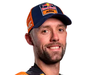
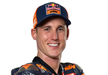
Fix misnamed KTM rider and add Pol Espargaro
The photo shipped as pol_espargaro is Jonas Folger, confirmed
bit-for-bit identical to the source the user named. Renamed, and the
remaining unprocessed Red Bull KTM photo is filed as Pol Espargaro.

Both riders wear factory Red Bull KTM kit carrying no rider number, so
the two were not separable from the photos alone.

Claude-Session: https://claude.ai/code/session_014CLVsmtiqS5tMzJV7xnFiZ

diff --git a/photos/README.md b/photos/README.md
@@ -180,6 +180,7 @@ not on the 22-rider entry list above. Same spec and same framing.
 |---|---|---|
 | `lorenzo_savadori` | Lorenzo Savadori | Aprilia Racing |
 | `pol_espargaro` | Pol Espargaró | Tech3 |
+| `jonas_folger` | Jonas Folger | Tech3 |
 | `cal_crutchlow` | Cal Crutchlow | Yamalube |
 | `takaaki_nakagami` | Takaaki Nakagami | LCR Honda Idm. |
 | `augusto_fernandez` | Augusto Fernández | ME Yamaha |
@@ -192,7 +193,13 @@ team the standings list them under — they ride for whoever they stand in for. 
 in a team polo rather than leathers, which is barely visible at tile size. Replace the source and re-run if that
 matters.
 
-Still missing, and needed for the standings to be complete: **Jonas Folger**.
+All eight substitute riders in the standings are now present.
+
+Both KTM riders wear factory Red Bull KTM kit with no number on it, so the two
+were briefly swapped: the shot now filed as `jonas_folger` was first shipped as
+`pol_espargaro`. If a source is ambiguous, check it against a photo you can
+name before committing — a wrong filename shows up in the app as the wrong face
+and is easy to miss.
 
 #### What the script needs from a source photo
 
